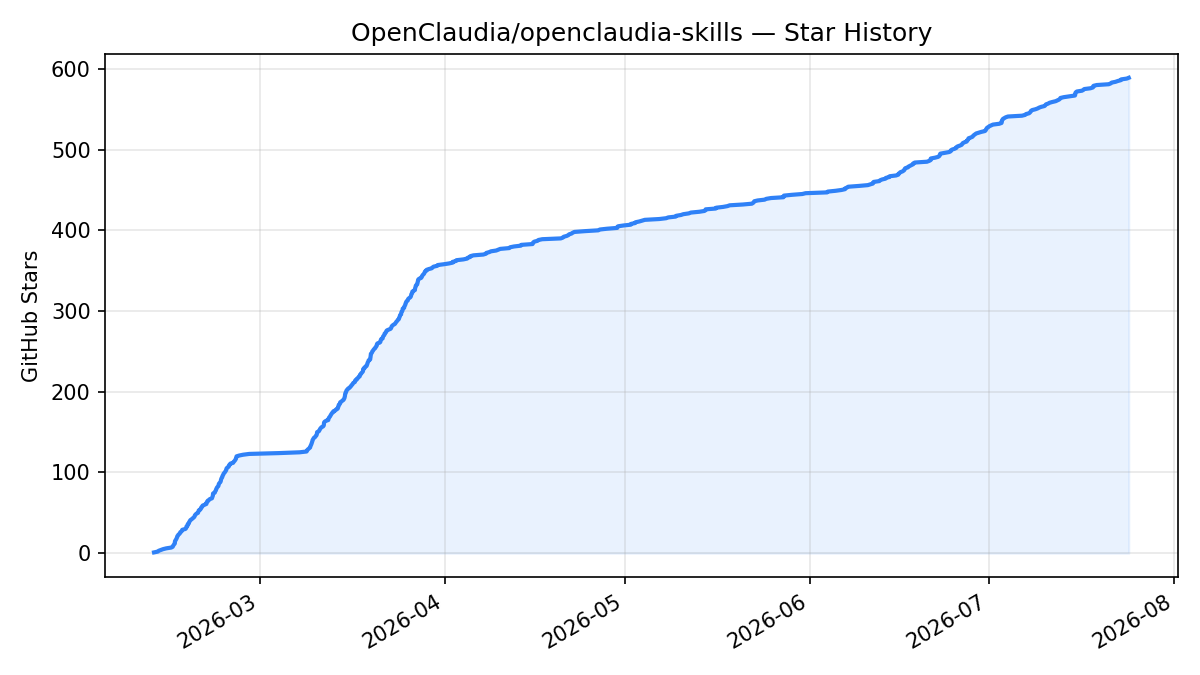
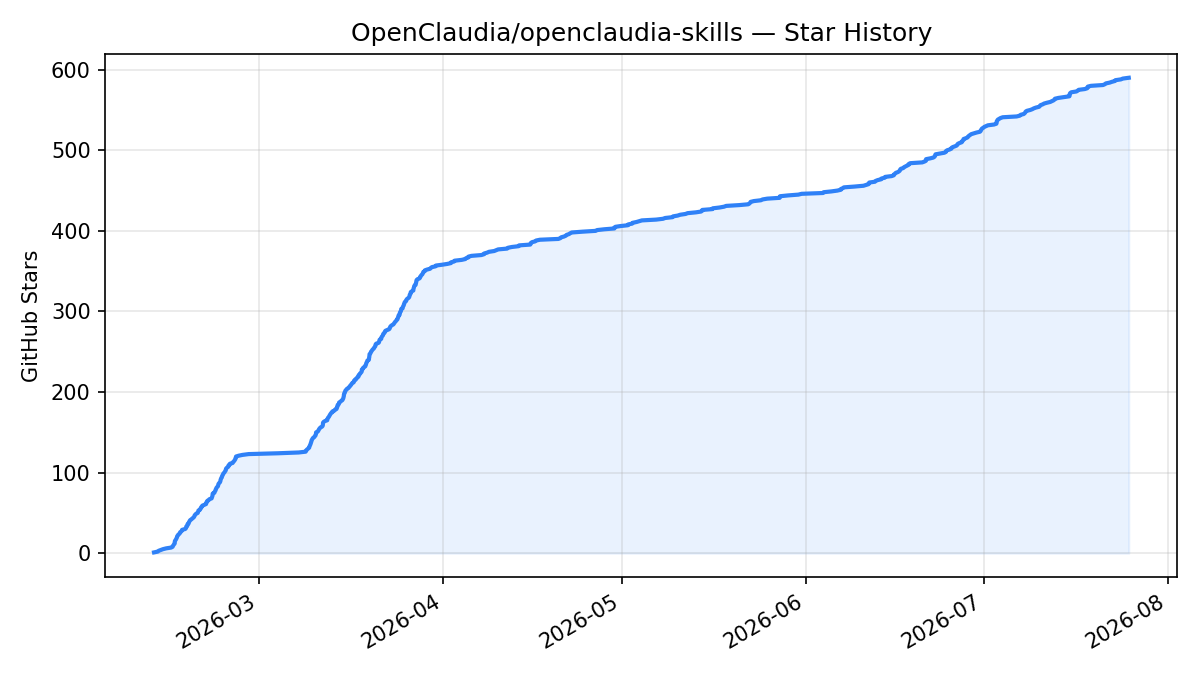
readme: refresh star chart (590 stars)

diff --git a/README.md b/README.md
@@ -327,7 +327,7 @@ MIT — see [LICENSE](LICENSE)
 
 ![Star History Chart](assets/star-history.png)
 
-<sub>Updated 2026-07-24. GitHub [restricted the stargazers API](https://github.blog/changelog/2026-06-30-upcoming-access-restrictions-to-public-api-endpoints-and-ui-views/) in June 2026, so the live star-history.com badge no longer renders; this chart is generated from the repo's own star data.</sub>
+<sub>Updated 2026-07-25. GitHub [restricted the stargazers API](https://github.blog/changelog/2026-06-30-upcoming-access-restrictions-to-public-api-endpoints-and-ui-views/) in June 2026, so the live star-history.com badge no longer renders; this chart is generated from the repo's own star data.</sub>
 
 ---
 
